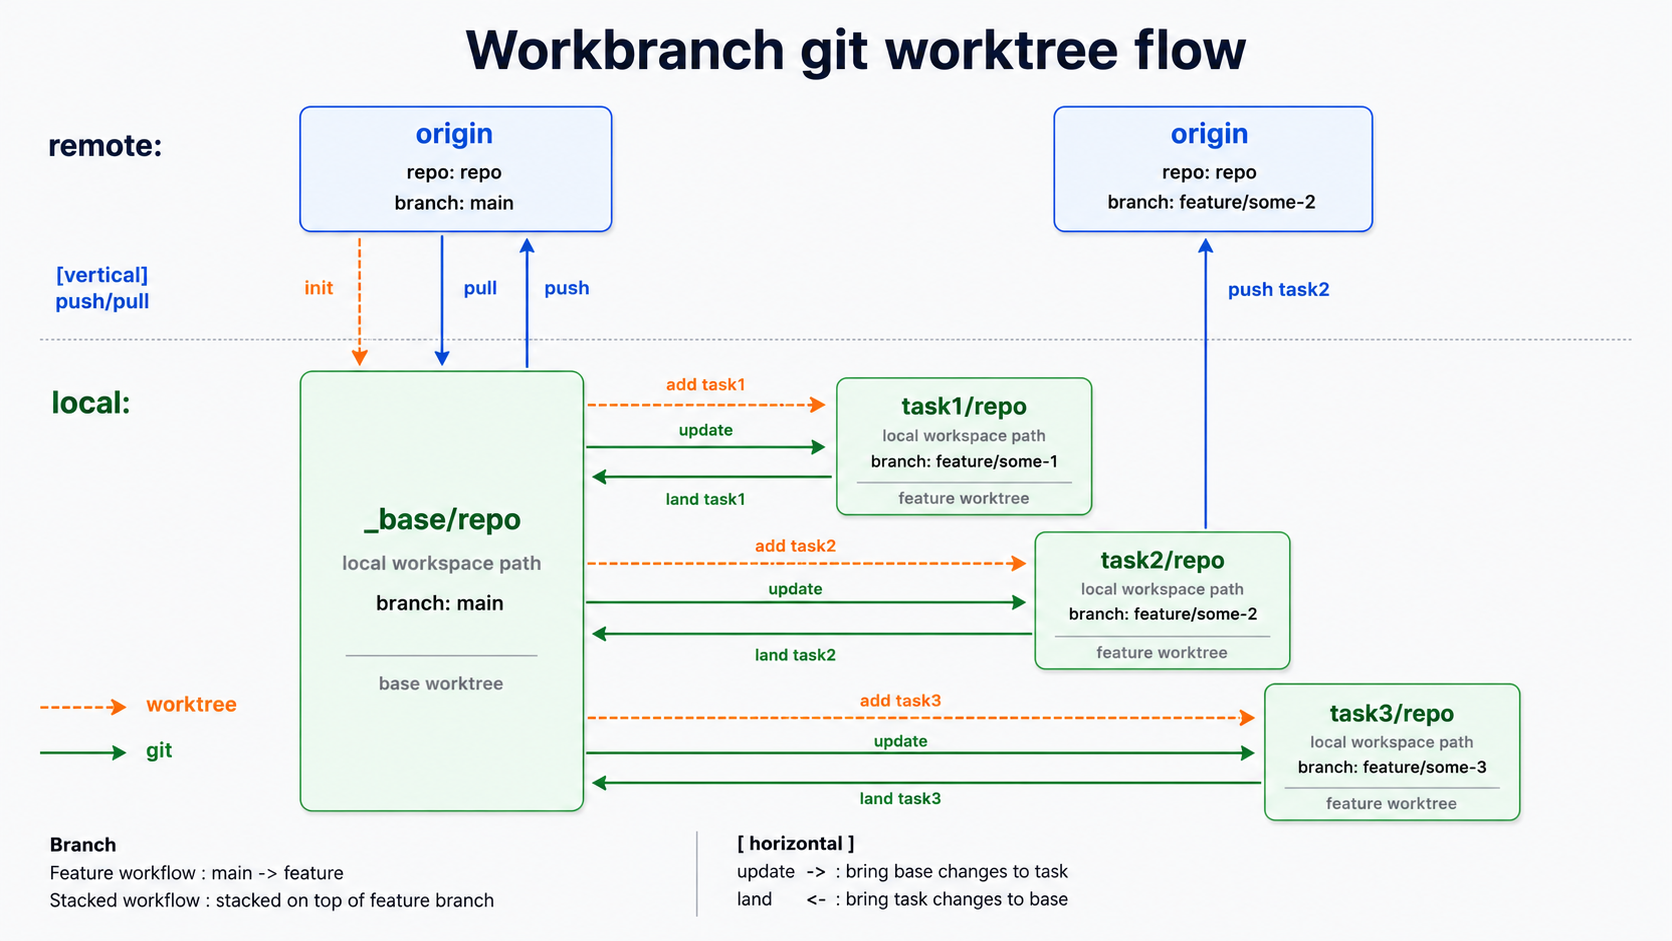
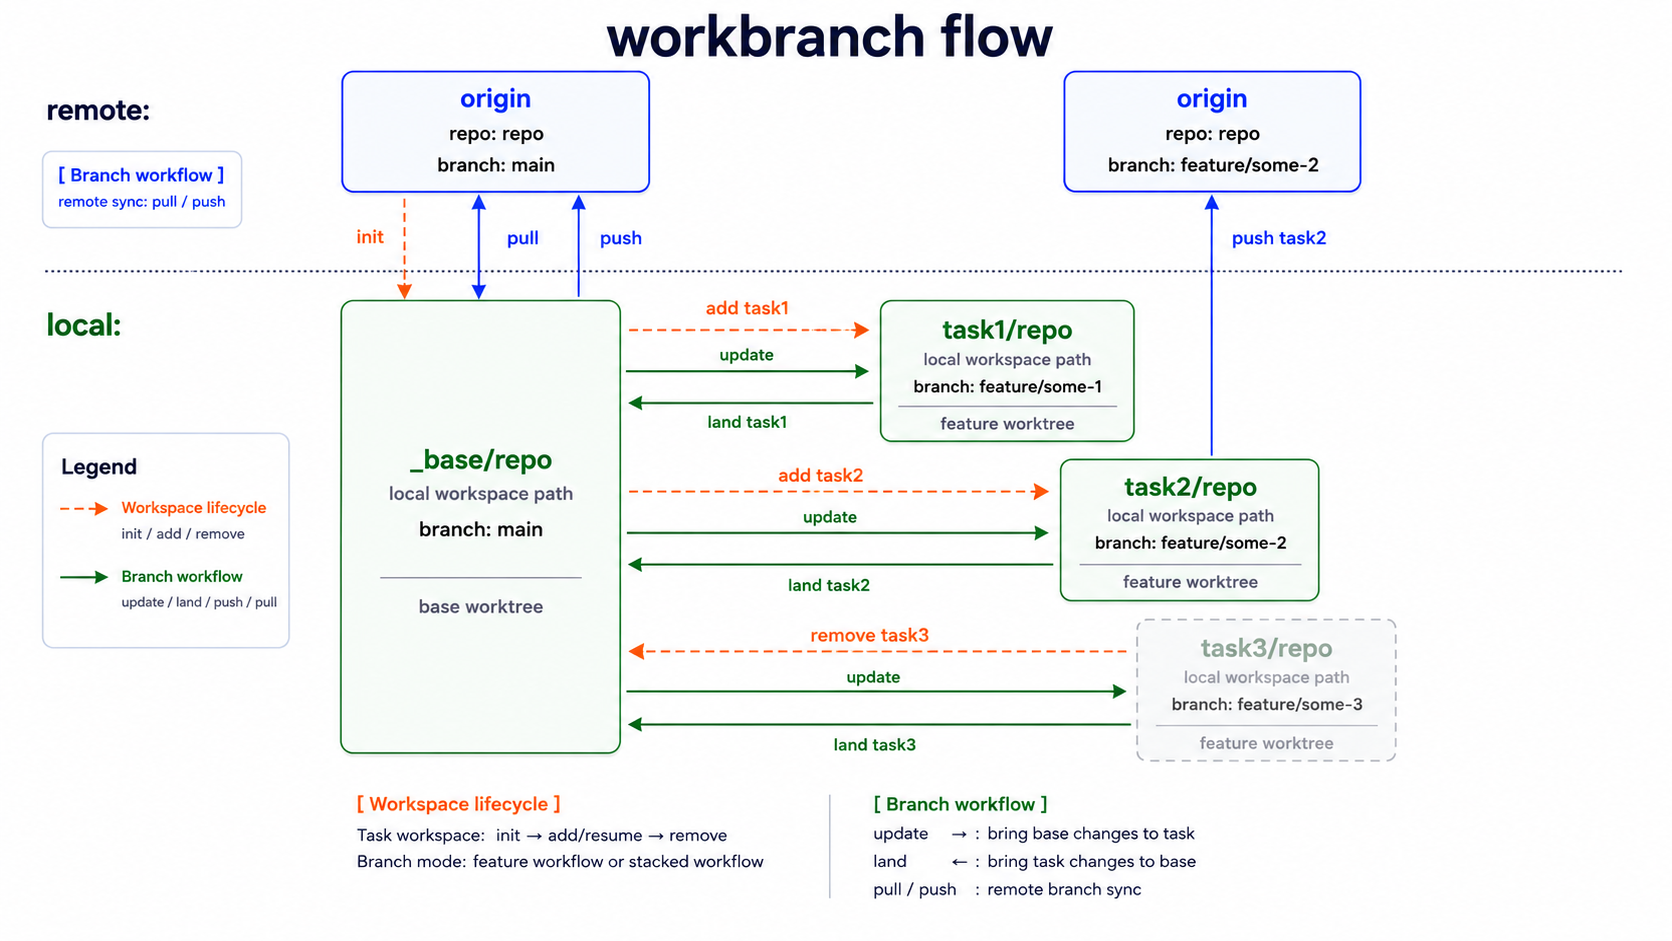
refactor: clarify CLI help and documentation by grouping commands into workspace lifecycle and branch workflow categories

diff --git a/README.ko.md b/README.ko.md
@@ -6,6 +6,8 @@
 
 `workbranch`는 feature마다 하나의 task 폴더를 만들고, single repo와 multi-repo 프로젝트 모두에서 짧고 안전한 branch sync 명령을 제공합니다.
 
+핵심 흐름은 task workspace를 만들고 제거하는 **Workspace lifecycle**과 task branch를 update, land, push하는 **Branch workflow** 두 가지입니다.
+
 ![img](./docs/figs/workbranch-git-flow.png)
 
 ## Install
@@ -71,6 +73,8 @@ Single-repo 프로젝트도 같은 구조를 사용하며, 각 task 안에 repo 
 
 ## 주요 명령어
 
+### Workspace lifecycle
+
 | Command | 용도 |
 | --- | --- |
 | `workbranch init` | config 기준으로 base worktree 생성 또는 clone |
@@ -78,15 +82,26 @@ Single-repo 프로젝트도 같은 구조를 사용하며, 각 task 안에 repo 
 | `workbranch add <task>` | task workspace 생성 |
 | `workbranch resume <task>` | 기존 local 또는 remote task branch 복구 |
 | `workbranch list` | repo와 task workspace 목록 확인 |
-| `workbranch status` | branch, diff, dirty state 확인 |
-| `workbranch update [task]` | local base 변경사항을 task worktree에 merge |
-| `workbranch pull` | remote base branch를 `_base/<repo>`로 pull |
-| `workbranch push [task]` | base branch 또는 task branch push |
-| `workbranch land <task>` | task 작업을 local base branch로 fast-forward 반영 |
 | `workbranch remove <task>` | task worktree와 local task branch 제거 |
+
+### Branch workflow
+
+| Command | 용도 |
+| --- | --- |
+| `workbranch status` | branch, diff, dirty state 확인 |
+| `workbranch pull` | remote base branch를 `_base/<repo>`로 pull |
+| `workbranch update [task]` | local base 변경사항을 task worktree에 merge |
+| `workbranch push` | base branch push |
+| `workbranch push <task>` | task branch push |
+| `workbranch land <task>` | task 작업을 local base branch로 fast-forward 반영 |
+
+### Other
+
+| Command | 용도 |
+| --- | --- |
 | `workbranch -v` | 설치된 version 확인 |
 
-지원되는 Git 명령에 `--repo <repo>`를 붙이면 특정 repo 하나만 대상으로 실행합니다.
+지원되는 Branch workflow 명령에 `--repo <repo>`를 붙이면 특정 repo 하나만 대상으로 실행합니다.
 
 ## Setup command
 

diff --git a/README.md b/README.md
@@ -6,6 +6,8 @@ Manage Git worktree task spaces without memorizing `git worktree` commands.
 
 `workbranch` creates one task folder per feature, works with one repo or many repos, and keeps branch sync commands short and safe.
 
+Its two core workflows are **Workspace lifecycle** for creating and removing task workspaces, and **Branch workflow** for updating, landing, and pushing task branches.
+
 ![img](./docs/figs/workbranch-git-flow.png)
 
 ## Install
@@ -71,6 +73,8 @@ Single-repo projects use the same shape with one repo directory inside each task
 
 ## Common commands
 
+### Workspace lifecycle
+
 | Command | Use it to |
 | --- | --- |
 | `workbranch init` | Create or clone base worktrees from config |
@@ -78,15 +82,26 @@ Single-repo projects use the same shape with one repo directory inside each task
 | `workbranch add <task>` | Create a task workspace |
 | `workbranch resume <task>` | Restore existing local or remote task branches |
 | `workbranch list` | Show repos and task workspaces |
-| `workbranch status` | Show branch, diff, and dirty state |
-| `workbranch update [task]` | Merge local base changes into task worktrees |
-| `workbranch pull` | Pull remote base branches into `_base/<repo>` |
-| `workbranch push [task]` | Push base branches or task branches |
-| `workbranch land <task>` | Fast-forward task work back into local base branches |
 | `workbranch remove <task>` | Remove task worktrees and local task branches |
+
+### Branch workflow
+
+| Command | Use it to |
+| --- | --- |
+| `workbranch status` | Show branch, diff, and dirty state |
+| `workbranch pull` | Pull remote base branches into `_base/<repo>` |
+| `workbranch update [task]` | Merge local base changes into task worktrees |
+| `workbranch push` | Push base branches |
+| `workbranch push <task>` | Push task branches |
+| `workbranch land <task>` | Fast-forward task work back into local base branches |
+
+### Other
+
+| Command | Use it to |
+| --- | --- |
 | `workbranch -v` | Show the installed version |
 
-Add `--repo <repo>` to supported Git commands when you want to operate on one repo only.
+Add `--repo <repo>` to supported Branch workflow commands when you want to operate on one repo only.
 
 ## Setup commands
 
